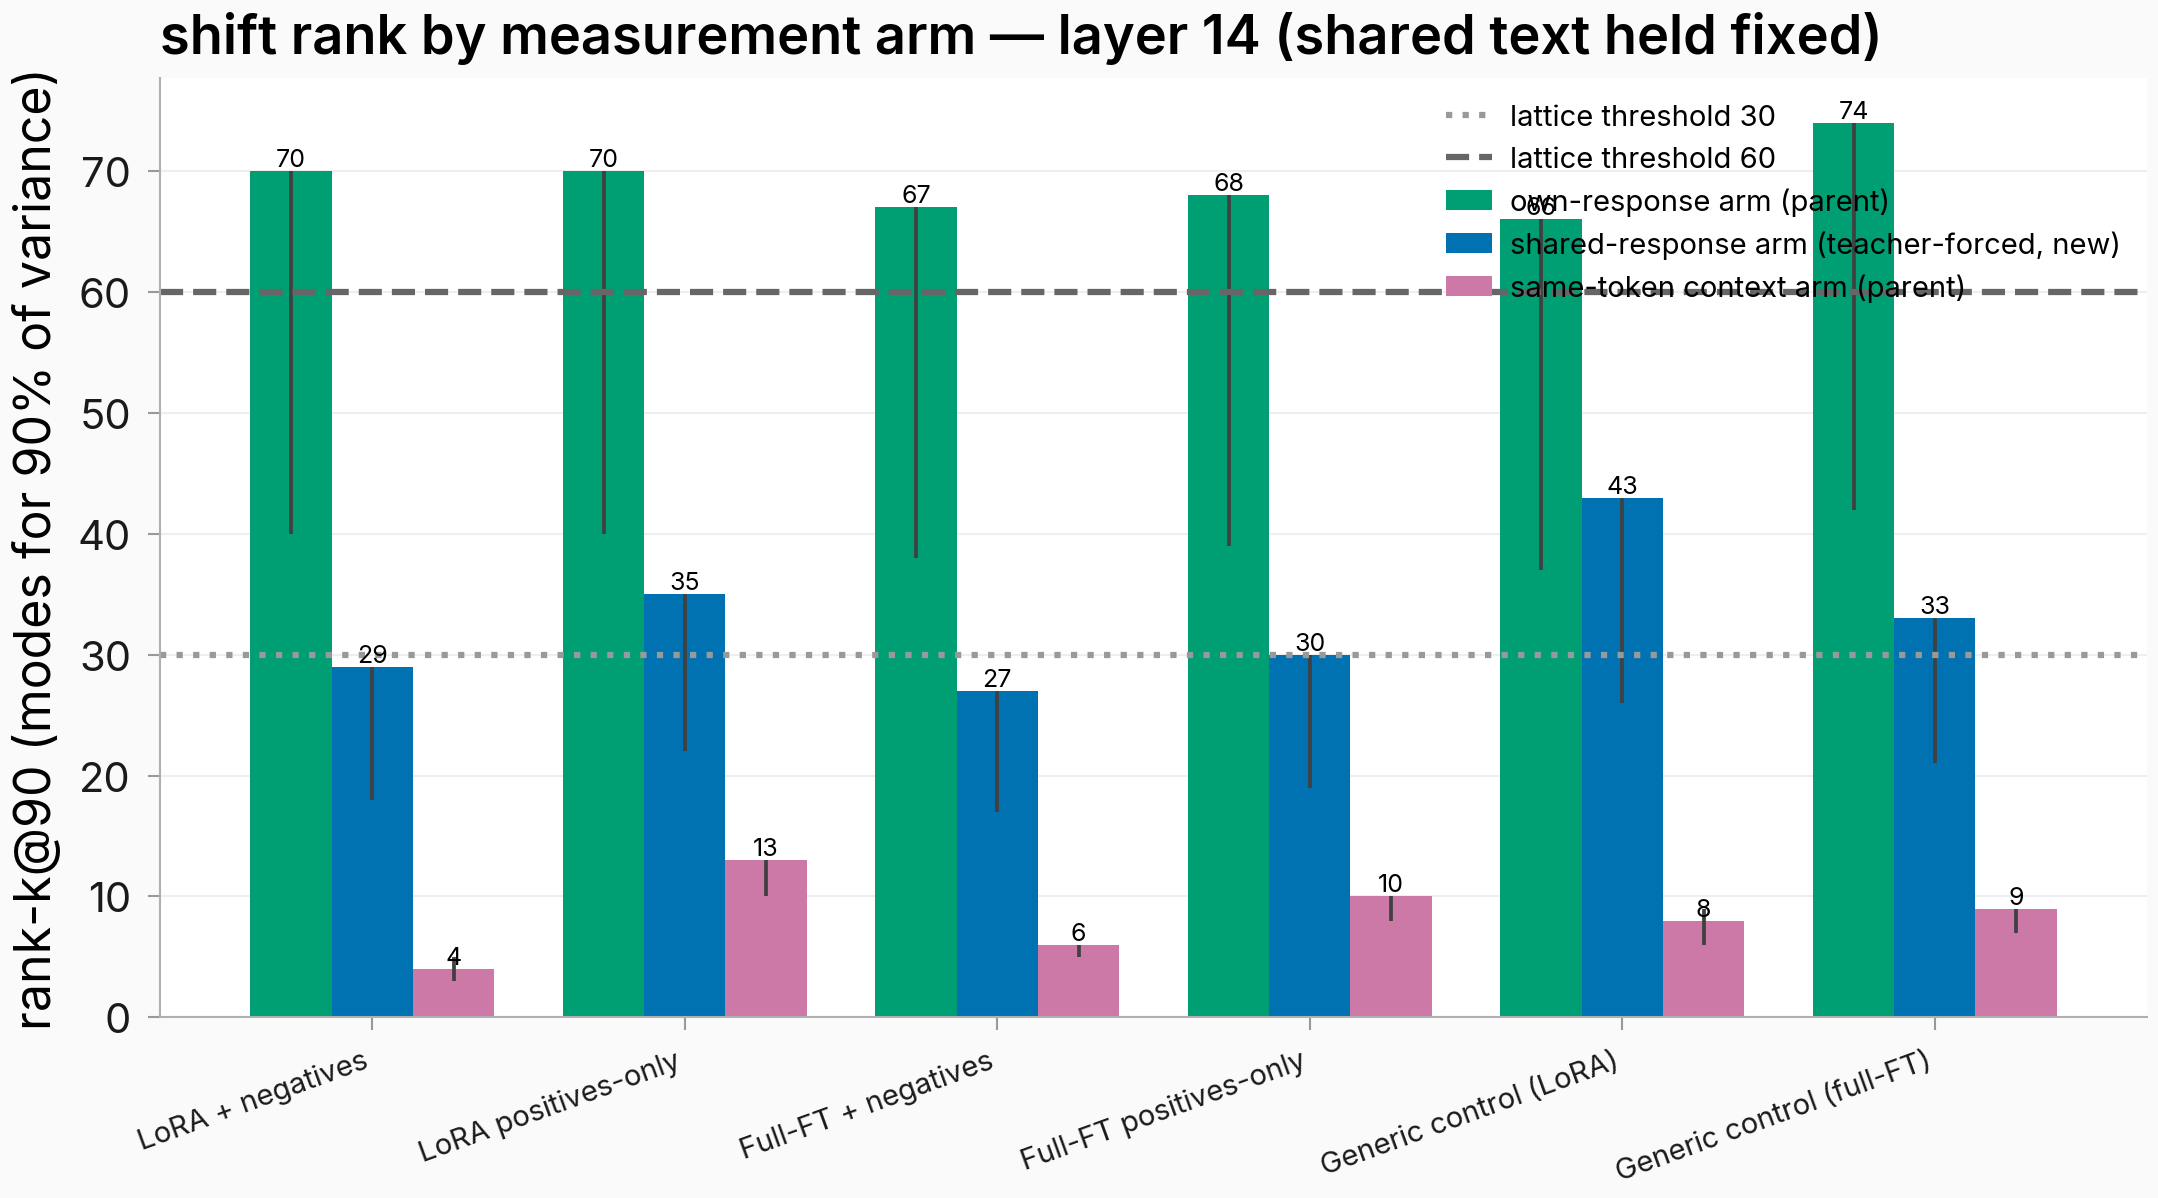
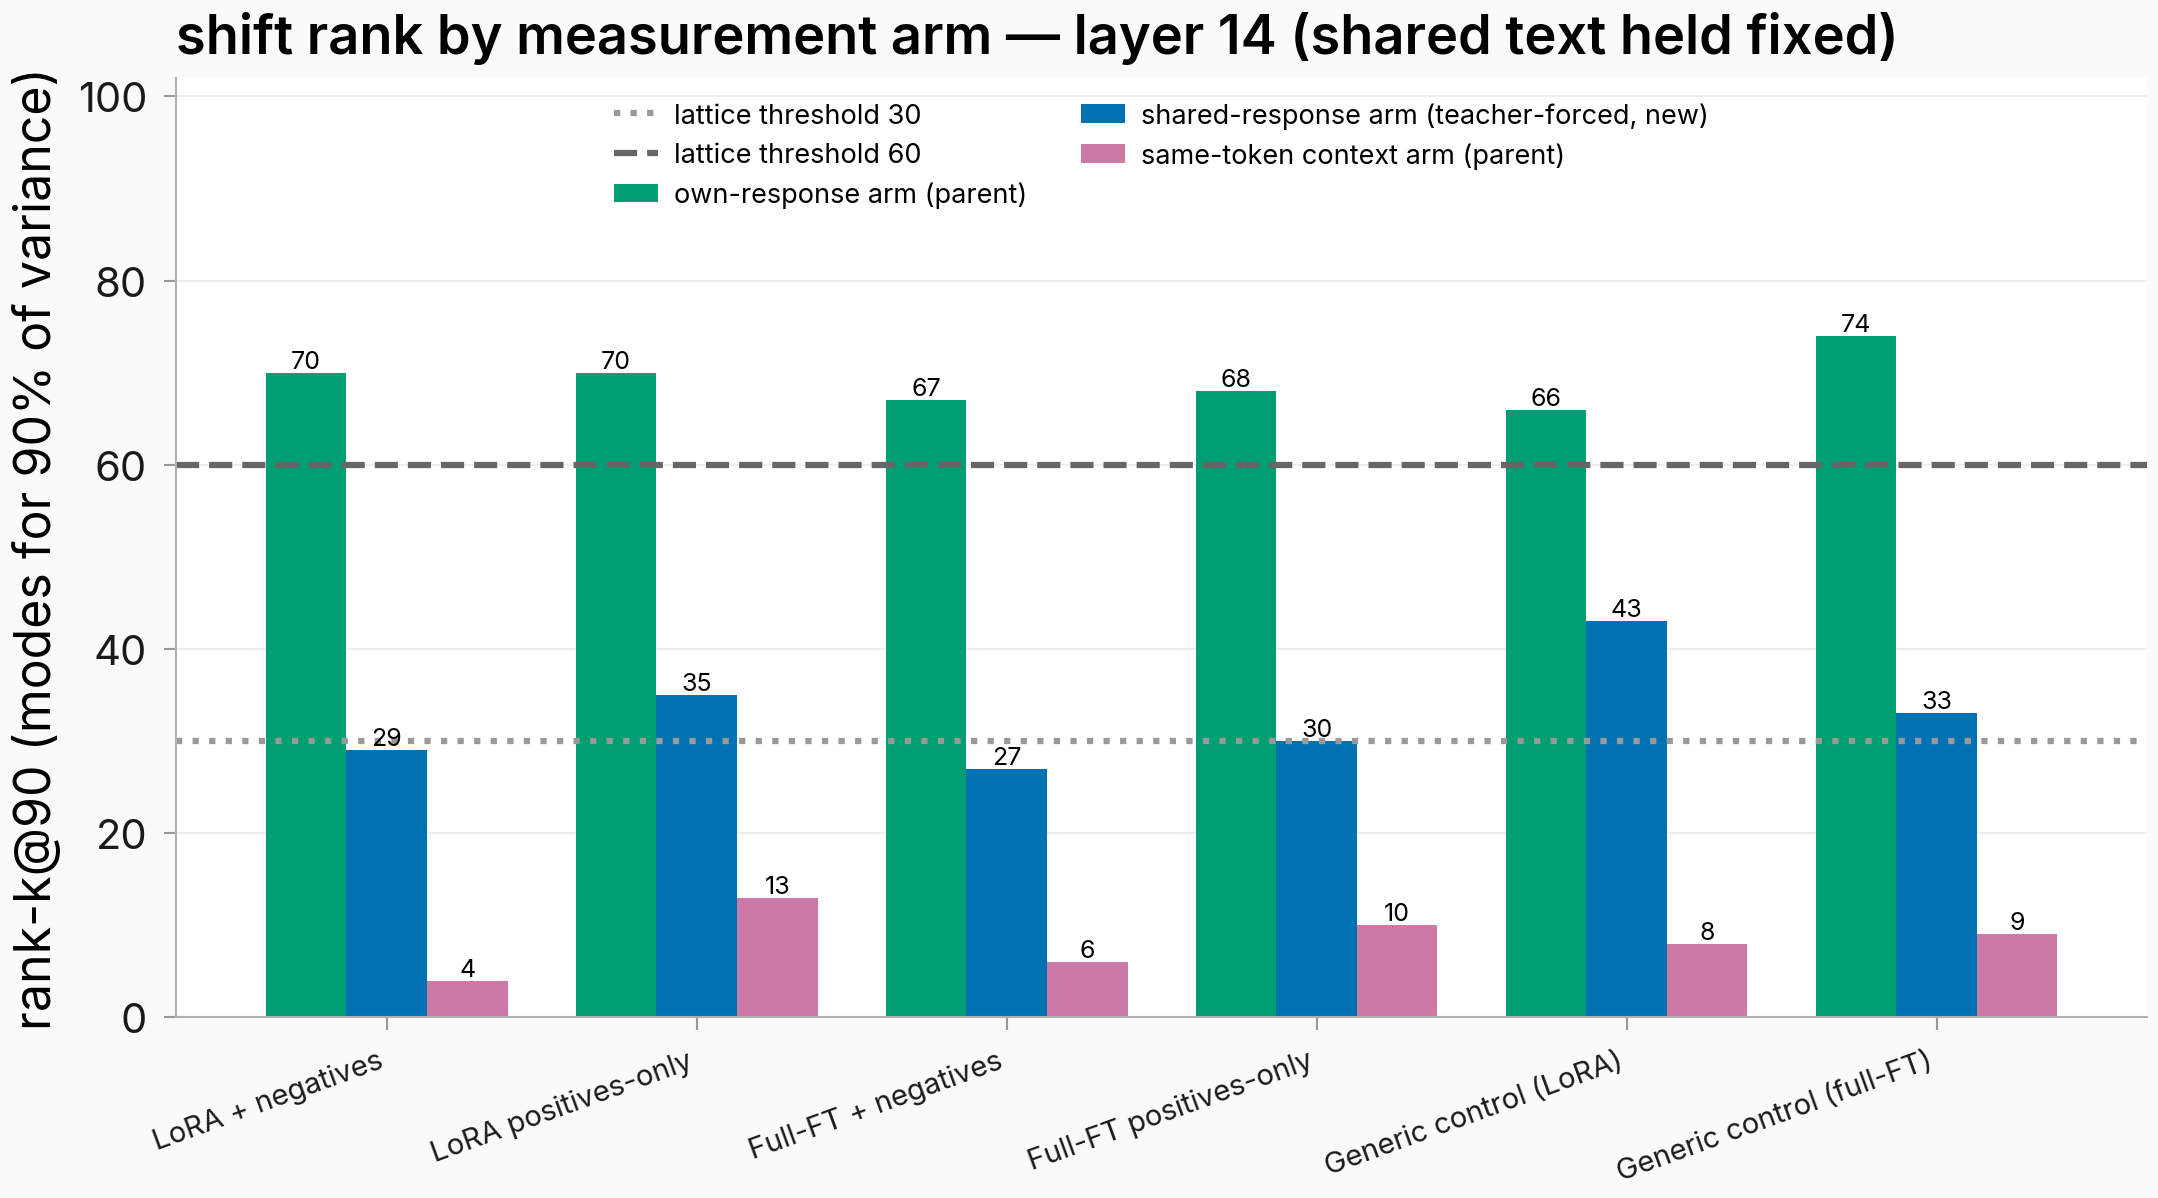
figures: issue #1112 tf hero — drop deflated per-cell bootstrap whiskers (match 2x2 hero convention) + fix legend overlapping bars

diff --git a/scripts/issue1112_figures.py b/scripts/issue1112_figures.py
@@ -511,6 +511,9 @@ def tf_hero_arm_contrast(tf: dict, installs: dict, out_dir: Path) -> None:
     }
     offsets = {"own": -width, "shared": 0.0, "context": width}
     colors = {"own": palette[2], "shared": palette[0], "context": palette[3]}
+    # Per-cell bootstrap whiskers DROPPED (deflated resample spread, not a CI
+    # for the 120-row point — same convention as the layer-14 2x2 hero);
+    # paired own-minus-shared difference CIs are quoted in the text.
     for arm in ("own", "shared", "context"):
         vals = [d["rank_k_at_90"] for d in arm_vals[arm]]
         bars = ax.bar(
@@ -520,19 +523,6 @@ def tf_hero_arm_contrast(tf: dict, installs: dict, out_dir: Path) -> None:
             color=colors[arm],
             label=TF_ARM_LABEL[arm],
         )
-        for x, d in zip(xs, arm_vals[arm], strict=True):
-            ci = (d.get("boot_ci") or {}).get("rank_k_at_90")
-            yerr = _yerr_from_ci(d["rank_k_at_90"], ci)
-            if yerr:
-                ax.errorbar(
-                    x + offsets[arm],
-                    d["rank_k_at_90"],
-                    yerr=yerr,
-                    fmt="none",
-                    ecolor="0.25",
-                    elinewidth=0.9,
-                    capsize=2,
-                )
         ax.bar_label(bars, fontsize=6, fmt="%.0f")
     lat = tf.get("lattice", {}).get("registered_thresholds", {})
     lo = lat.get("collapse_max", 30.0)
@@ -545,7 +535,9 @@ def tf_hero_arm_contrast(tf: dict, installs: dict, out_dir: Path) -> None:
     )
     ax.set_ylabel("rank-k@90 (modes for 90% of variance)")
     ax.set_title(f"shift rank by measurement arm — layer {layer} (shared text held fixed)")
-    ax.legend(fontsize=7)
+    # Headroom above the tallest bar so the legend never overlaps the bars.
+    ax.set_ylim(0, 102)
+    ax.legend(fontsize=6.5, ncol=2, loc="upper center", framealpha=0.9)
     _save(fig, out_dir, "hero_arm_contrast_rankk_tf", _meta(cells=cells, layer=layer))
 
 
